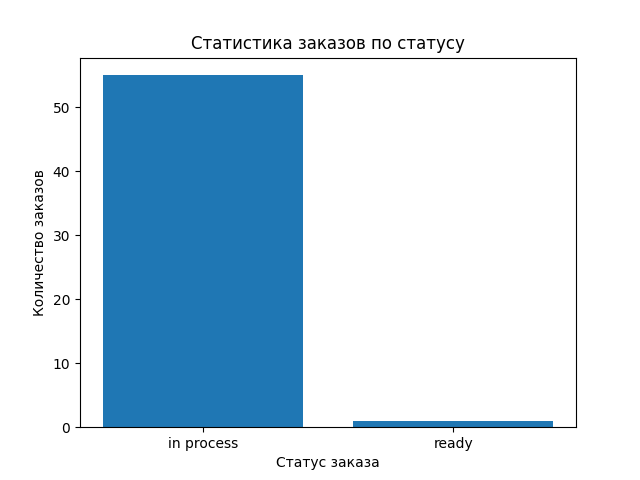
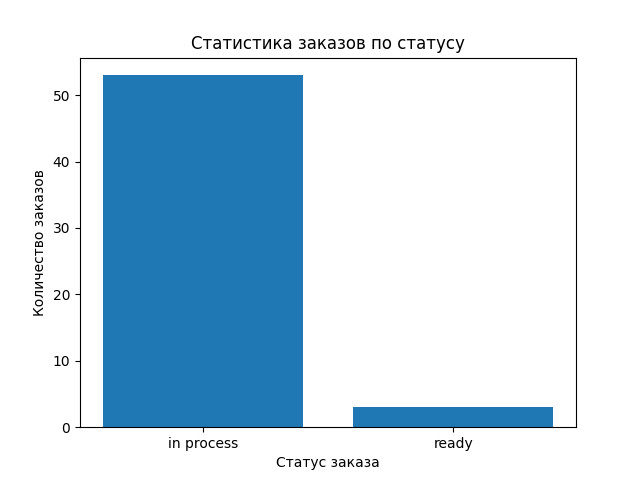
add lost data v2

diff --git a/templates/admin/order-status-graph.html b/templates/admin/order-status-graph.html
@@ -1,0 +1,10 @@
+<!DOCTYPE html>
+<html lang="en">
+<head>
+    <meta charset="UTF-8">
+    <title>Order graph</title>
+</head>
+<body>
+    <img src="{% load static %}{% static 'images/order_status_graph.png' %}" alt="Your Image">
+</body>
+</html>

diff --git a/service/admin.py b/service/admin.py
@@ -3,11 +3,9 @@ from django.db.models import Count
 from django.templatetags.static import static
 from django.urls import path
 from django.utils.html import format_html
-from django.utils.safestring import mark_safe
 from import_export.admin import ImportExportModelAdmin
 from matplotlib import pyplot as plt
 
-from Autodrem.settings import STATIC_ROOT
 from service.models import Spare, Service, Order, RepairRequest
 
 
@@ -31,32 +29,32 @@ class RepairRequestAdmin(ImportExportModelAdmin):
     pass
 
 
-class CustomAdminSite(admin.AdminSite):
-    site_header = 'Администрирование Autodrem'
-
-    def get_urls(self):
-        urls = super().get_urls()
-        custom_urls = [
-            path('order-status-graph/', self.admin_view(self.order_status_graph), name='order_status_graph'),
-        ]
-        return custom_urls + urls
-
-    def order_status_graph(self, request):
-        status_counts = Order.objects.values('status').annotate(count=Count('id'))
-        statuses = [entry['status'] for entry in status_counts]
-        counts = [entry['count'] for entry in status_counts]
-
-        plt.bar(statuses, counts)
-        plt.xlabel('Статус заказа')
-        plt.ylabel('Количество заказов')
-        plt.title('Статистика заказов по статусу')
-
-        image_path = 'C:\\Users\\andre\\Work\\Autodrem\\static\\images\\order_status_graph.png'
-        plt.savefig(image_path)
-        plt.close()
-
-        relative_path = 'images/order_status_graph.png'
-        return format_html('<img src="{}" alt="Order Status Graph">', static(relative_path))
-
-
-admin_site = CustomAdminSite(name='custom_admin')
+# class CustomAdminSite(admin.AdminSite):
+#     site_header = 'Администрирование Autodrem'
+#
+#     def get_urls(self):
+#         urls = super().get_urls()
+#         custom_urls = [
+#             path('order-status-graph/', self.admin_view(self.order_status_graph), name='order_status_graph'),
+#         ]
+#         return custom_urls + urls
+#
+#     def order_status_graph(self, request):
+#         status_counts = Order.objects.values('status').annotate(count=Count('id'))
+#         statuses = [entry['status'] for entry in status_counts]
+#         counts = [entry['count'] for entry in status_counts]
+#
+#         plt.bar(statuses, counts)
+#         plt.xlabel('Статус заказа')
+#         plt.ylabel('Количество заказов')
+#         plt.title('Статистика заказов по статусу')
+#
+#         image_path = 'C:\\Users\\andre\\Work\\Autodrem\\static\\images\\order_status_graph.png'
+#         plt.savefig(image_path)
+#         plt.close()
+#
+#         relative_path = 'images/order_status_graph.png'
+#         return format_html('<img src="{}" alt="Order Status Graph">', static(relative_path))
+#
+#
+# admin_site = CustomAdminSite(name='custom_admin')

diff --git a/service/urls.py b/service/urls.py
@@ -1,6 +1,5 @@
 from django.urls import path
 
-from .admin import admin_site
 from .views import (
     SpareListCreateView,
     SpareDetailView,
@@ -11,7 +10,7 @@ from .views import (
     OrderItemCreateView,
     OrderItemDetailView,
     RepairRequestListCreateView,
-    RepairRequestDetailView,
+    RepairRequestDetailView, order_status_graph,
 )
 
 urlpatterns = [
@@ -29,6 +28,8 @@ urlpatterns = [
 
     path('repair-requests/', RepairRequestListCreateView.as_view(), name='repair-request-list'),
     path('repair-requests/<int:pk>/', RepairRequestDetailView.as_view(), name='repair-request-detail'),
+
+    path('order_status_graph/', order_status_graph, name='order_status_graph'),
 
     # path('admin/order-status-graph/', admin_site.admin_view(admin_site.order_status_graph), name='order_status_graph'),
 ]

diff --git a/service/management/commands/statistic.py b/service/management/commands/statistic.py
@@ -1,8 +1,10 @@
+import os
+
 import matplotlib.pyplot as plt
 from django.db.models import Count
 from django.core.management.base import BaseCommand
 
-from Autodrem.settings import STATIC_ROOT
+from Autodrem.settings import STATIC_DIR, BASE_DIR
 from service.models import Order
 
 
@@ -19,9 +21,8 @@ class Command(BaseCommand):
         plt.xlabel('Статус заказа')
         plt.ylabel('Количество заказов')
         plt.title('Статистика заказов по статусу')
-        plt.show()
 
-        image_path = STATIC_ROOT + 'images/order_status_graph.png'
+        image_path = os.path.join(BASE_DIR, 'static', 'images', 'order_status_graph.png')
         plt.savefig(image_path)
         plt.close()
 

diff --git a/service/views.py b/service/views.py
@@ -1,3 +1,4 @@
+from django.shortcuts import render
 from rest_framework import generics, status
 from rest_framework.pagination import PageNumberPagination
 from rest_framework.response import Response
@@ -87,3 +88,7 @@ class RepairRequestListCreateView(generics.ListCreateAPIView):
 class RepairRequestDetailView(generics.RetrieveUpdateDestroyAPIView):
     queryset = RepairRequest.objects.all()
     serializer_class = RepairRequestSerializer
+
+
+def order_status_graph(request):
+    return render(request, 'admin/order-status-graph.html')

diff --git a/Autodrem/urls.py b/Autodrem/urls.py
@@ -25,5 +25,5 @@ urlpatterns = [
     path('api/auth/', include('authenticate.urls')),
     path('api/chat/', include('chat.urls')),
 ]
-urlpatterns += static(settings.MEDIA_URL,
-                          document_root=settings.MEDIA_ROOT)
+urlpatterns += static(settings.MEDIA_URL, document_root=settings.MEDIA_ROOT)
+urlpatterns += static(settings.STATIC_URL, document_root=settings.STATIC_ROOT)

diff --git a/Autodrem/settings.py b/Autodrem/settings.py
@@ -139,7 +139,7 @@ USE_TZ = True
 
 STATIC_URL = 'static/'
 
-STATIC_ROOT = os.path.join(BASE_DIR, 'static/')
+STATIC_DIR = os.path.join(BASE_DIR, 'static/')
 
 # Default primary key field type
 # https://docs.djangoproject.com/en/4.2/ref/settings/#default-auto-field
@@ -193,3 +193,5 @@ LOGGING = {
         }
     }
 }
+
+STATICFILES_DIRS = [(os.path.join(BASE_DIR,'static'))]
